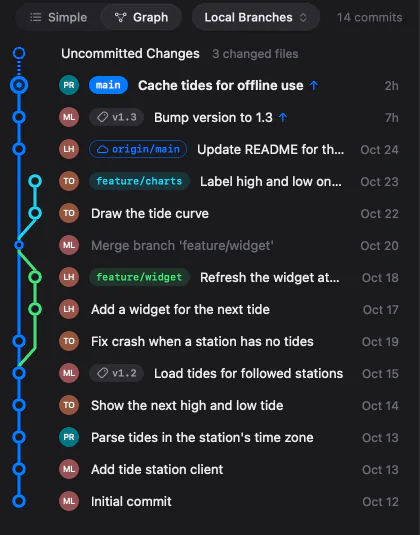
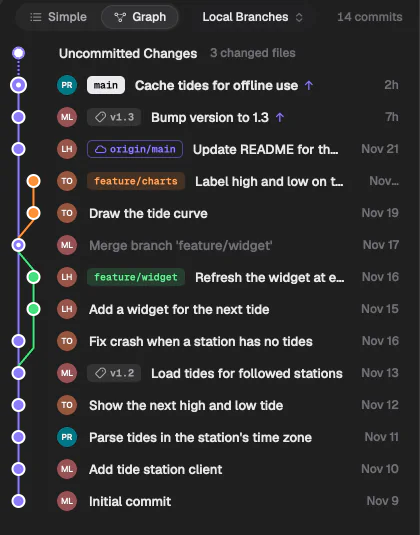
Show Espalier's two themes, Default and Islands
Espalier's themes are Default, the one that was Frost, and Islands;
Classic and Pop are gone. The theme switcher has two tabs, and the page
says two themes. The hero, Changes, graph close-up, and sharing images
are Default in Iris, and the graph's description names its colors.
scripts/images.sh draws those two looks.

diff --git a/web/templates/page.html b/web/templates/page.html
@@ -68,8 +68,8 @@
   <div class="wrap wrap-wide">
     <figure class="window hero-window">
       <picture>
-        <source media="(prefers-color-scheme: dark)" srcset="{{srcset "classic-dark" 1440 2880}}" sizes="(min-width: 1320px) 1280px, calc(100vw - 32px)">
-        <img src="{{asset "/static/images/classic-light-1440.webp"}}" srcset="{{srcset "classic-light" 1440 2880}}" sizes="(min-width: 1320px) 1280px, calc(100vw - 32px)" width="1440" height="900" fetchpriority="high" alt="Espalier's History view for a project called Harbor, showing a color-coded commit graph beside a Swift diff.">
+        <source media="(prefers-color-scheme: dark)" srcset="{{srcset "default-dark" 1440 2880}}" sizes="(min-width: 1320px) 1280px, calc(100vw - 32px)">
+        <img src="{{asset "/static/images/default-light-1440.webp"}}" srcset="{{srcset "default-light" 1440 2880}}" sizes="(min-width: 1320px) 1280px, calc(100vw - 32px)" width="1440" height="900" fetchpriority="high" alt="Espalier's History view for a project called Harbor, showing a color-coded commit graph beside a Swift diff.">
       </picture>
     </figure>
   </div>
@@ -89,7 +89,7 @@
     <figure class="card graph-card reveal">
       <picture>
         <source media="(prefers-color-scheme: dark)" srcset="{{srcset "graph-dark" 420 840}}" sizes="(min-width: 960px) 420px, calc(100vw - 32px)">
-        <img src="{{asset "/static/images/graph-light-420.webp"}}" srcset="{{srcset "graph-light" 420 840}}" sizes="(min-width: 960px) 420px, calc(100vw - 32px)" width="420" height="535" loading="lazy" decoding="async" alt="A commit graph with main in blue (tagged v1.2 and v1.3), a green widget branch merged in, and an open teal charts branch.">
+        <img src="{{asset "/static/images/graph-light-420.webp"}}" srcset="{{srcset "graph-light" 420 840}}" sizes="(min-width: 960px) 420px, calc(100vw - 32px)" width="420" height="535" loading="lazy" decoding="async" alt="A commit graph with main in blue-violet (tagged v1.2 and v1.3), a green widget branch merged in, and an open orange charts branch.">
       </picture>
     </figure>
   </div>
@@ -157,25 +157,21 @@
   <div class="wrap">
     <div class="intro reveal">
       <h2 id="themes-title">Built to fit your setup.</h2>
-      <p>Pick from four themes and several color palettes, adjust background tints, set separate fonts for the interface and code, and run in light or dark mode.</p>
+      <p>Pick from two themes and several color palettes, adjust background tints, set separate fonts for the interface and code, and run in light or dark mode.</p>
     </div>
   </div>
   <div class="themes">
-    <input class="theme-choice" type="radio" name="theme" id="theme-classic" aria-label="Classic" data-event="theme" data-event-theme="classic" checked>
-    <input class="theme-choice" type="radio" name="theme" id="theme-frost" aria-label="Frost" data-event="theme" data-event-theme="frost">
+    <input class="theme-choice" type="radio" name="theme" id="theme-default" aria-label="Default" data-event="theme" data-event-theme="default" checked>
     <input class="theme-choice" type="radio" name="theme" id="theme-islands" aria-label="Islands" data-event="theme" data-event-theme="islands">
-    <input class="theme-choice" type="radio" name="theme" id="theme-pop" aria-label="Pop" data-event="theme" data-event-theme="pop">
     <div class="wrap">
       <div class="theme-tabs" aria-hidden="true">
-        <label for="theme-classic"><span class="swatch swatch-classic"></span>Classic</label>
-        <label for="theme-frost"><span class="swatch swatch-frost"></span>Frost</label>
+        <label for="theme-default"><span class="swatch swatch-default"></span>Default</label>
         <label for="theme-islands"><span class="swatch swatch-islands"></span>Islands</label>
-        <label for="theme-pop"><span class="swatch swatch-pop"></span>Pop</label>
       </div>
     </div>
     <figure class="wrap wrap-wide theme-shots">
       <div class="window theme-window">
-        {{range $theme := list "classic" "frost" "islands" "pop"}}
+        {{range $theme := list "default" "islands"}}
         <picture class="theme-shot theme-shot-{{$theme}}">
           <source media="(prefers-color-scheme: dark)" srcset="{{srcset (print $theme "-dark") 1440 2880}}" sizes="(min-width: 1320px) 1280px, calc(100vw - 32px)">
           <img src="{{asset (print "/static/images/" $theme "-light-1440.webp")}}" srcset="{{srcset (print $theme "-light") 1440 2880}}" sizes="(min-width: 1320px) 1280px, calc(100vw - 32px)" width="1440" height="900" loading="lazy" decoding="async" alt="{{themeAlt $theme}}">
@@ -183,7 +179,7 @@
         {{end}}
       </div>
       <figcaption class="theme-captions">
-        {{range $theme := list "classic" "frost" "islands" "pop"}}
+        {{range $theme := list "default" "islands"}}
         <span class="theme-shot theme-shot-{{$theme}}">{{themeCaption $theme}}</span>
         {{end}}
       </figcaption>

diff --git a/web/static/site.css b/web/static/site.css
@@ -24,10 +24,8 @@
   --shadow-card: 0 1px 2px rgb(17 12 25 / 0.04), 0 18px 44px -26px rgb(17 12 25 / 0.28);
   --glow-a: rgb(180 140 255 / 0.3);
   --glow-b: rgb(121 136 237 / 0.18);
-  --classic: #0064e1;
-  --frost: #5b43e8;
+  --default: #5b43e8;
   --islands: #0a6f80;
-  --pop: #c2247e;
   --radius-window: 18px;
   --radius-card: 22px;
   --gutter: 16px;
@@ -56,10 +54,8 @@
     --shadow-card: 0 20px 50px -28px rgb(0 0 0 / 0.7);
     --glow-a: rgb(180 140 255 / 0.16);
     --glow-b: rgb(121 136 237 / 0.14);
-    --classic: #007aff;
-    --frost: #8b7cf6;
+    --default: #8b7cf6;
     --islands: #1494a8;
-    --pop: #e0389a;
   }
 }
 
@@ -742,7 +738,7 @@ kbd {
   border-radius: 50%;
 }
 
-/* On a phone the four fit side by side, a little tighter. */
+/* On a phone the tabs are a little tighter. */
 @media (max-width: 480px) {
   .theme-tabs {
     gap: 2px;
@@ -761,29 +757,23 @@ kbd {
   }
 }
 
-.swatch-classic { background: var(--classic); }
-.swatch-frost { background: var(--frost); }
+.swatch-default { background: var(--default); }
 .swatch-islands { background: var(--islands); }
-.swatch-pop { background: var(--pop); }
 
-#theme-classic:checked ~ .wrap label[for="theme-classic"],
-#theme-frost:checked ~ .wrap label[for="theme-frost"],
-#theme-islands:checked ~ .wrap label[for="theme-islands"],
-#theme-pop:checked ~ .wrap label[for="theme-pop"] {
+#theme-default:checked ~ .wrap label[for="theme-default"],
+#theme-islands:checked ~ .wrap label[for="theme-islands"] {
   background: var(--bg-raised);
   color: var(--ink);
   box-shadow: 0 0 0 1px var(--hairline), 0 2px 6px rgb(17 12 25 / 0.1);
 }
 
-#theme-classic:focus-visible ~ .wrap label[for="theme-classic"],
-#theme-frost:focus-visible ~ .wrap label[for="theme-frost"],
-#theme-islands:focus-visible ~ .wrap label[for="theme-islands"],
-#theme-pop:focus-visible ~ .wrap label[for="theme-pop"] {
+#theme-default:focus-visible ~ .wrap label[for="theme-default"],
+#theme-islands:focus-visible ~ .wrap label[for="theme-islands"] {
   outline: 2px solid var(--accent);
   outline-offset: 2px;
 }
 
-/* One window holds the four screenshots, stacked, and one caption holds
+/* One window holds the screenshots, stacked, and one caption holds
    their captions. Hidden ones stay laid out, so each screenshot loads as the
    section nears the screen, before it's picked. */
 .theme-window,
@@ -804,10 +794,8 @@ kbd {
   visibility: hidden;
 }
 
-#theme-classic:checked ~ .theme-shots .theme-shot-classic,
-#theme-frost:checked ~ .theme-shots .theme-shot-frost,
-#theme-islands:checked ~ .theme-shots .theme-shot-islands,
-#theme-pop:checked ~ .theme-shots .theme-shot-pop {
+#theme-default:checked ~ .theme-shots .theme-shot-default,
+#theme-islands:checked ~ .theme-shots .theme-shot-islands {
   z-index: 1;
   opacity: 1;
   visibility: visible;
@@ -1117,10 +1105,8 @@ kbd {
     transition: opacity 0s 0.3s, visibility 0s 0.3s;
   }
 
-  #theme-classic:checked ~ .theme-shots .theme-shot-classic,
-  #theme-frost:checked ~ .theme-shots .theme-shot-frost,
-  #theme-islands:checked ~ .theme-shots .theme-shot-islands,
-  #theme-pop:checked ~ .theme-shots .theme-shot-pop {
+  #theme-default:checked ~ .theme-shots .theme-shot-default,
+  #theme-islands:checked ~ .theme-shots .theme-shot-islands {
     transition: opacity 0.3s var(--ease);
   }
 

diff --git a/site.go b/site.go
@@ -341,21 +341,13 @@ func setSecurityHeaders(header http.Header) {
 
 // themes describes the page's screenshot of each of Espalier's themes.
 var themes = map[string]struct{ caption, alt string }{
-	"classic": {
-		caption: "Crisp and standard, using your Mac's system accent color.",
-		alt:     "Espalier's History view in the Classic theme with a blue accent.",
-	},
-	"frost": {
+	"default": {
 		caption: "Quiet near-white and near-black, with glass around one inset card. Shown in Iris.",
-		alt:     "Espalier's History view in the Frost theme (Iris), with near-neutral surfaces around one inset card and a blue-violet accent.",
+		alt:     "Espalier's History view in the Default theme (Iris), with near-neutral surfaces around one inset card and a blue-violet accent.",
 	},
 	"islands": {
 		caption: "Floating card panes over a softer background. Shown in Lagoon.",
 		alt:     "Espalier's History view in the Islands theme (Lagoon), with floating card panes and a teal accent.",
-	},
-	"pop": {
-		caption: "High-contrast with a full-color sidebar. Shown in Magenta.",
-		alt:     "Espalier's History view in the Pop theme (Magenta), with a pink-tinted sidebar and magenta accent.",
 	},
 }
 

diff --git a/README.md b/README.md
@@ -50,8 +50,8 @@ Edits to `web/` show after a restart: the files are built into the binary.
 
 The screenshots are Espalier's own windows, drawn by its Showcase captures
 (`Packages/EspalierKit/Tests/EspalierCaptures/Showcase` in the Espalier
-repository) on a demo project, in Classic, Frost, Islands, and Pop, light
-and dark. The icon comes from Espalier's Icon Composer file. To make them
+repository) on a demo project, in Default and Islands, light and dark. The
+icon comes from Espalier's Icon Composer file. To make them
 again after Espalier's look changes:
 
 ```sh
